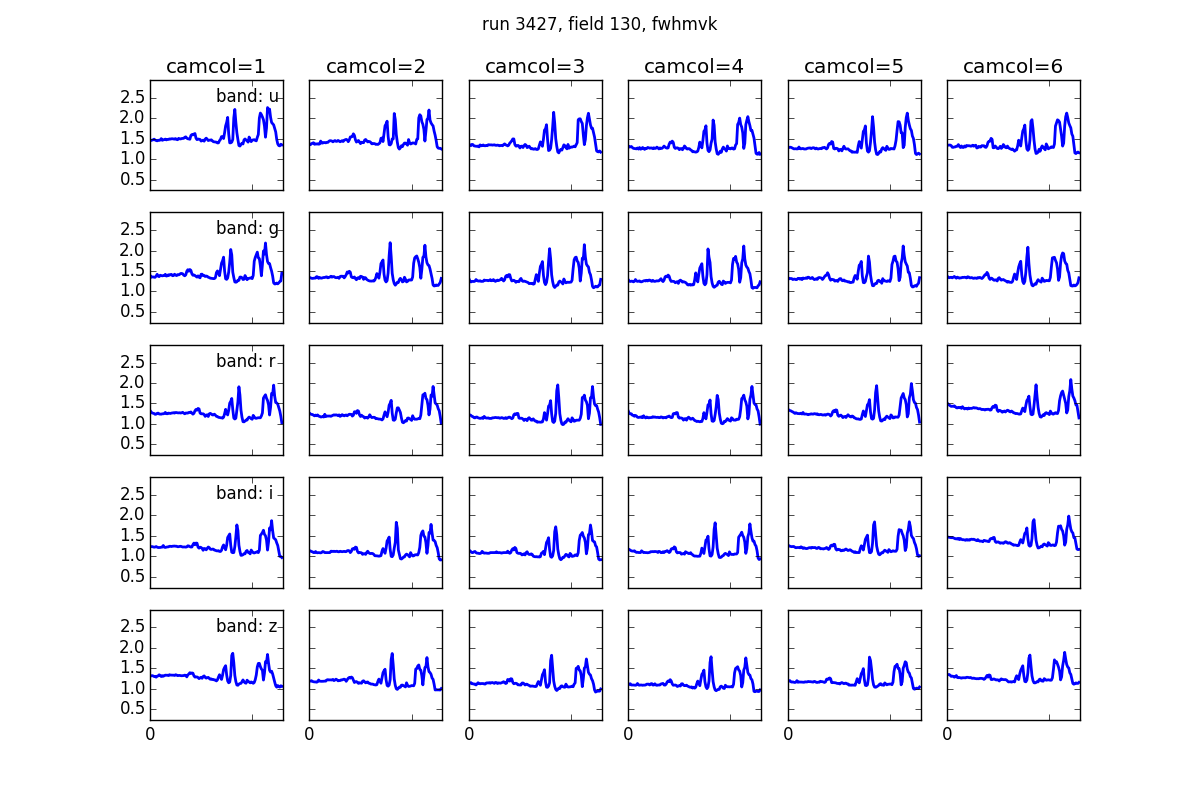
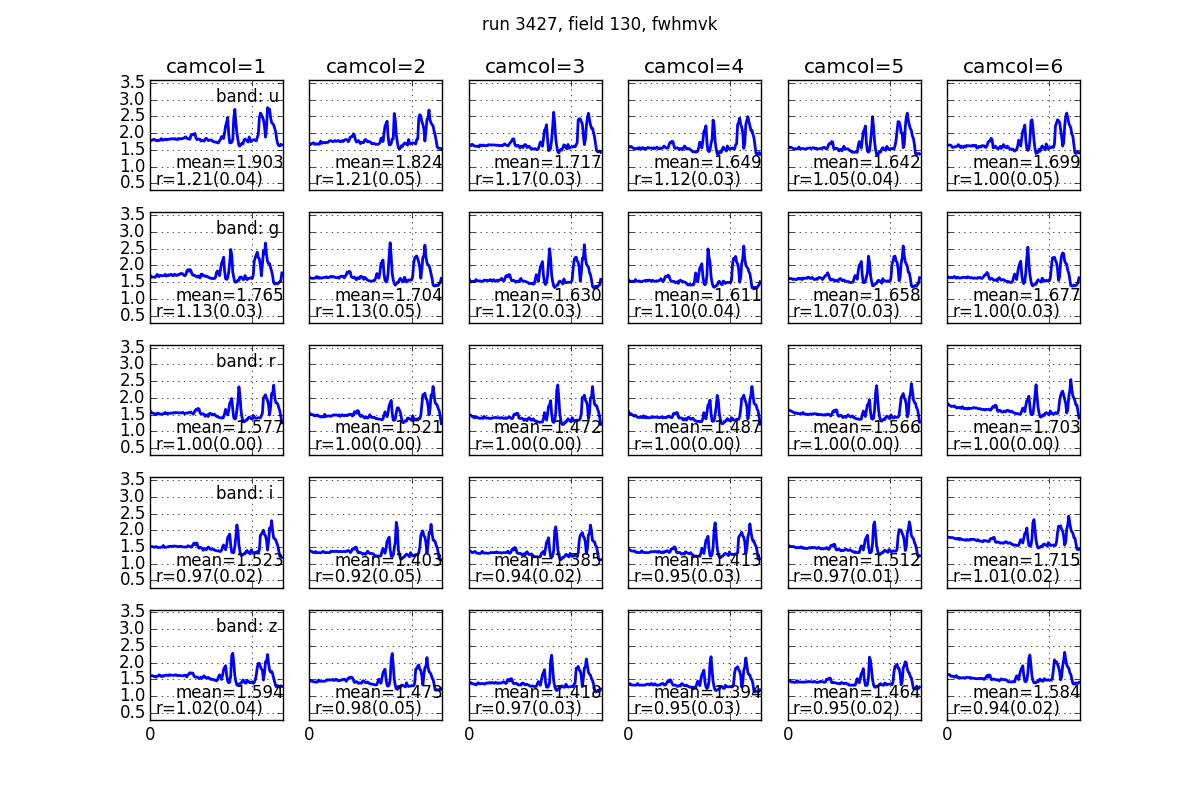
add more figures

diff --git a/analysis/source/variation_by_run.py b/analysis/source/variation_by_run.py
@@ -15,8 +15,8 @@ def main():
         description='----- variation_by_run.py ---------')
     parser.add_argument('vname', help='variable we want to look at, e.g. psf_sigma1,\
 psf_sigma2, airmass, neff_psf, psf_nstar, psf_width')
-    parser.add_argument('irun', type=int,
-                        help='Run Number')
+    parser.add_argument('irun', type=int, 
+                        help='Run Number; use -1 for all runs')
     parser.add_argument('-fitsoff', help='w/o reading in data from fits files',
                         action='store_true')
     args = parser.parse_args()
@@ -25,12 +25,12 @@ psf_sigma2, airmass, neff_psf, psf_nstar, psf_width')
     objlist = np.loadtxt('data/Stripe82RunList.dat')
 
     sdss = sdssinst()
-
+    totalFields = 0
     runcount = 0
     for line in objlist:
         runcount += 1
         run = int(line[0])
-        if run != args.irun:
+        if ((args.irun>0 ) and (run != args.irun)):
             continue
         print('-- running on run# %d (seq.# %d)---------' % (
             run, runcount))
@@ -39,6 +39,7 @@ psf_sigma2, airmass, neff_psf, psf_nstar, psf_width')
                               sharey='row',
                               figsize=(12, 8))  # a plot is for a run
         myRun = sdssrun(run)
+        totalFields += myRun.nfields
         myxticks = np.linspace(0, np.ceil(
             myRun.nfields / 100) * 100, np.ceil(myRun.nfields / 100) + 1)
         myxticklabels = ['%d' % (myxticks[i])
@@ -49,13 +50,21 @@ psf_sigma2, airmass, neff_psf, psf_nstar, psf_width')
             else:
                 myxticklabels[i] = ''
 
-        a3dfile = 'output/temp/run%d_%s.txt' % (myRun.runNo, args.vname)
-        if (not args.fitsoff):
-            a3d = myRun.getBCFtable(sdss, args.vname)
-            myTools.savetxt3d(a3dfile, a3d)
+        if args.vname == 'fwhmvk':
+            mastertxt = 'SDSSdata/masterTXT/run%d.txt'%run
+            a3d = np.loadtxt(mastertxt, skiprows = 1)
+            a3d = a3d[:, 3]
+            a3d = a3d.reshape(sdss.nCamcol,-1, sdss.nBand)
+            a3d=np.swapaxes(a3d,0,2)
+            a3d=np.swapaxes(a3d,1,2)
         else:
-            a3d = np.loadtxt(a3dfile)
-            a3d = a3d.reshape(sdss.nBand, sdss.nCamcol, -1)
+            a3dfile = 'output/temp/run%d_%s.txt' % (myRun.runNo, args.vname)
+            if (not args.fitsoff):
+                a3d = myRun.getBCFtable(sdss, args.vname)
+                myTools.savetxt3d(a3dfile, a3d)
+            else:
+                a3d = np.loadtxt(a3dfile)
+                a3d = a3d.reshape(sdss.nBand, sdss.nCamcol, -1)
         ymin = np.min(a3d)
         ymax = np.max(a3d)
             
@@ -72,19 +81,40 @@ psf_sigma2, airmass, neff_psf, psf_nstar, psf_width')
                         1].annotate(text, xy=(0.5, 0.8),
                                     xycoords='axes fraction')  # , fontsize=16,
                     # horizontalalignment='right', verticalalignment='bottom')
+                text = 'mean=%.3f'%np.mean(a3d[iBand, camcol - 1, :])
+                ax1[iBand, camcol -
+                        1].annotate(text, xy=(0.2, 0.2),
+                                    xycoords='axes fraction')
+                if ((args.vname == 'psf_width') or (args.vname == 'fwhmvk')):
+                    if iBand==0: #u
+                        rat = a3d[iBand, camcol - 1, :-4]/a3d[2, camcol - 1, 4:]
+                    elif iBand==1: #g
+                        rat = a3d[iBand, camcol - 1, :-8]/a3d[2, camcol - 1, 8:]
+                    elif iBand==2: #r
+                        rat = a3d[iBand, camcol - 1, :]/a3d[2, camcol - 1, :]
+                    elif iBand==3: #g
+                        rat = a3d[iBand, camcol - 1, :-2]/a3d[2, camcol - 1, 2:]
+                    elif iBand==4: #g
+                        rat = a3d[iBand, camcol - 1, :-6]/a3d[2, camcol - 1, 6:]
+                    text = 'r=%.2f(%.2f)'%(np.mean(rat), np.std(rat))
+                    ax1[iBand, camcol -
+                                1].annotate(text, xy=(0.05, 0.05),
+                                                xycoords='axes fraction') 
                 ax1[iBand, camcol - 1].set_xticks(myxticks)
                 ax1[iBand, camcol - 1].set_xticklabels(myxticklabels)
                 ax1[iBand, camcol - 1].set_xlim(0, myRun.nfields)
                 ax1[iBand, camcol - 1].set_ylim(ymin-(ymax-ymin)*0.5, ymax+(ymax-ymin)*0.5)
+                ax1[iBand, camcol - 1].grid()
                 
         plt.suptitle('run %d, field %d, %s ' %
                      (run, myRun.nfields, args.vname))
         # plt.tight_layout()
         # plt.show()
-        plt.savefig('output/run%d_%s.png' % (myRun.runNo, args.vname))
+        #plt.savefig('output/run%d_%s.png' % (myRun.runNo, args.vname))
         end = time.time()
-        print('time = %8.2fs' % (end - start))
-        sys.exit()
+    print('total number of fields = %d' % totalFields)
+    print('time = %8.2fs' % (end - start))
+    #    sys.exit()
 
 if __name__ == "__main__":
     main()
